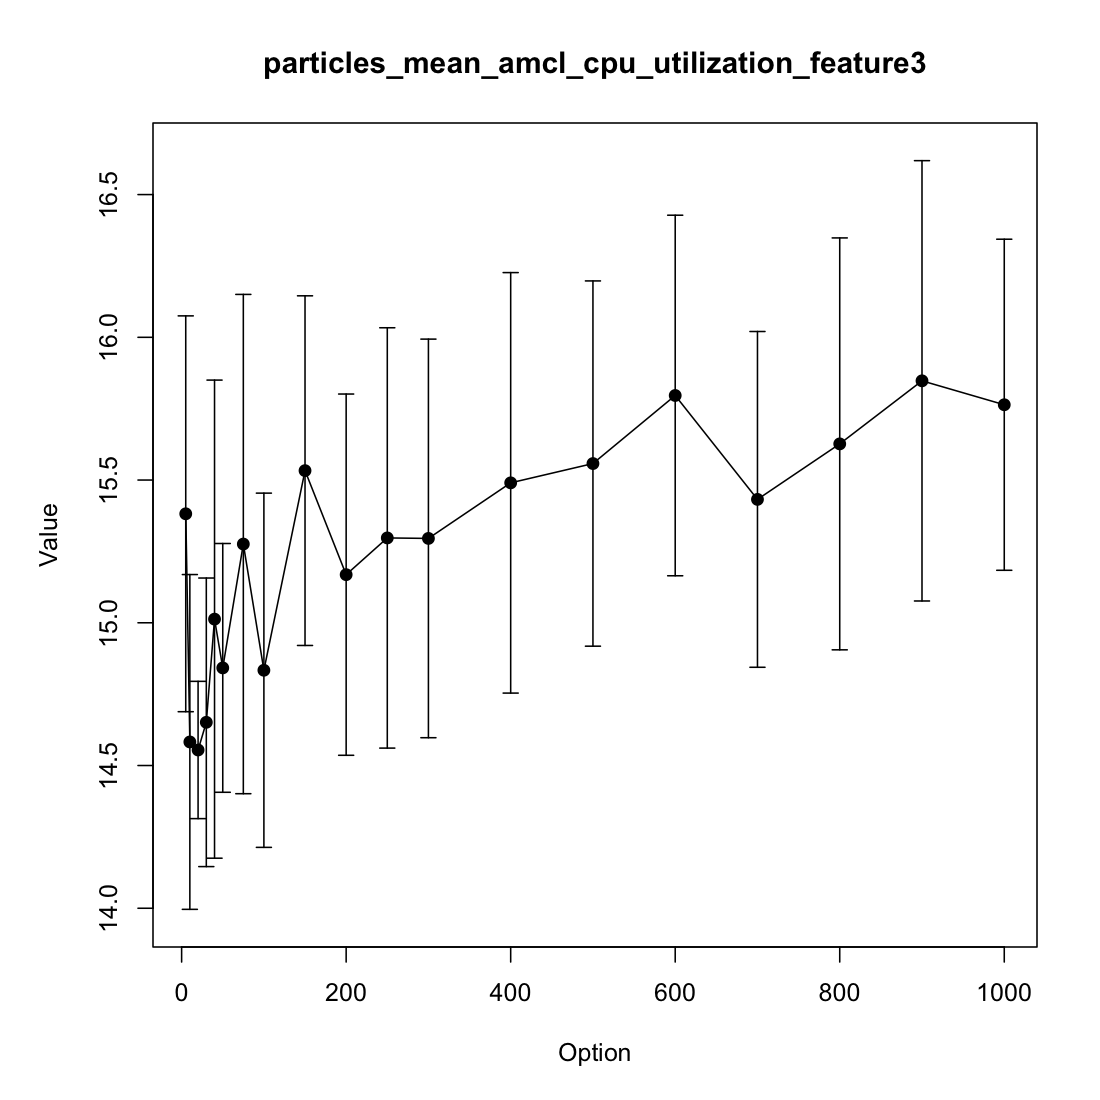
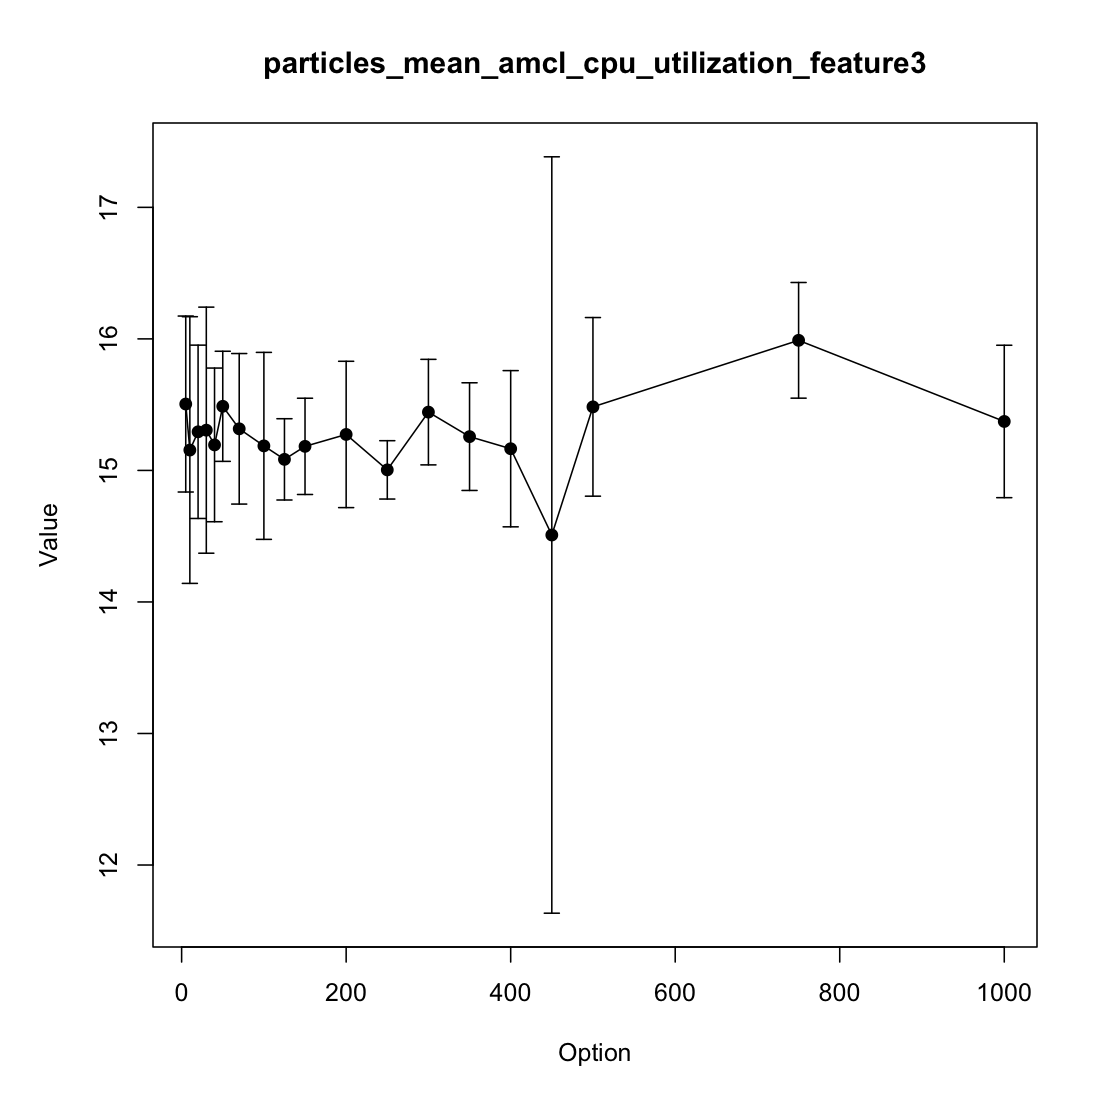
Change code to get only same number of particles

diff --git a/src/cp1_gazebo/instructions/localization/compare_configurations.py b/src/cp1_gazebo/instructions/localization/compare_configurations.py
@@ -304,6 +304,15 @@ def graph_particle_filter_configurations_combine():
         tuples = mdb.exec_sql('select id, options from configurations where options like "{0}%" '
                               'and options not like "{0}%,%" ORDER BY options'.format(combine_option))
 
+        analyze = []
+        for tuple in tuples:
+            element = tuple[1].split(',')
+            element_1 = element[0].strip()
+            element_2 = element[1].strip()
+
+            if element_1.split(' ')[-1] == element_2.split(' ')[-1]:
+                analyze.append(tuple)
+
         graph_configuration_options(name, id_option_tuples=tuples)
 
     mdb.shutdown()
